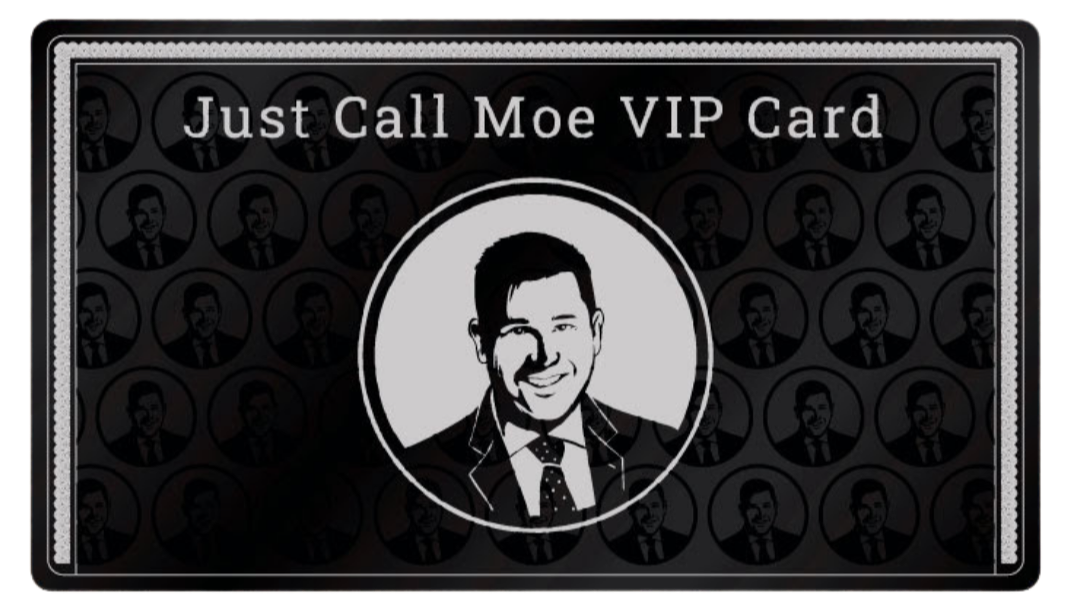
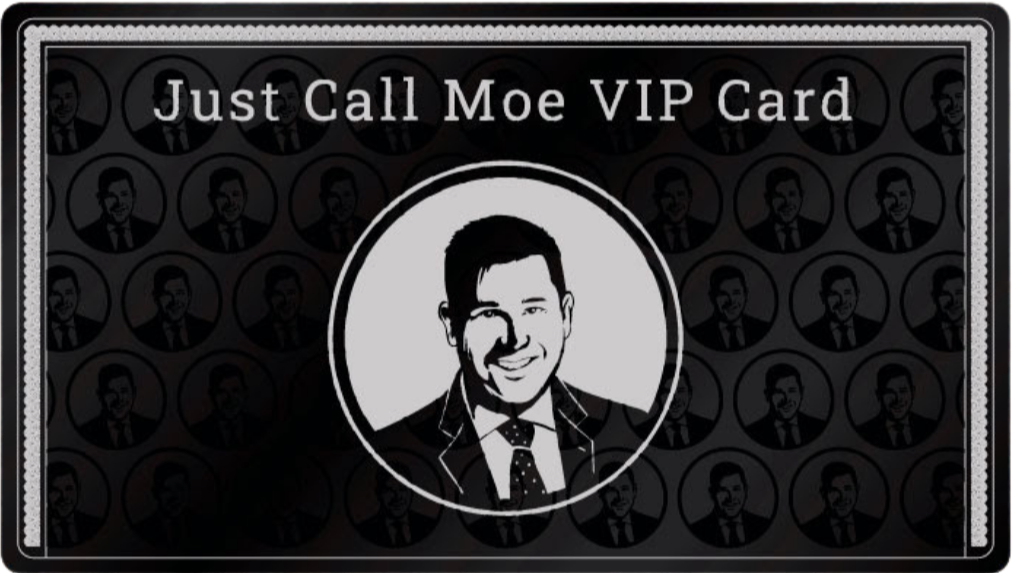
Tighten VIP card graphic fit

diff --git a/styles.css b/styles.css
@@ -438,8 +438,8 @@ p {
 
 .etched-name {
   position: absolute;
-  left: 6%;
-  bottom: 7%;
+  left: 5.6%;
+  bottom: 8.5%;
   display: block;
   width: 25%;
   color: rgba(232, 232, 232, 0.62);